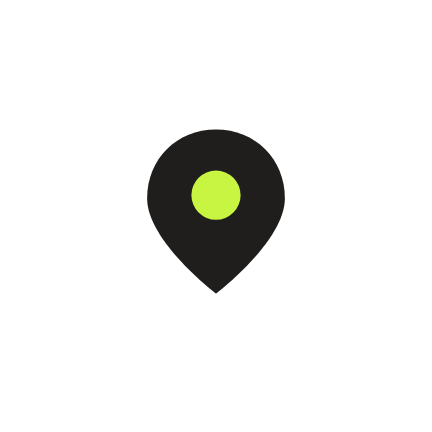
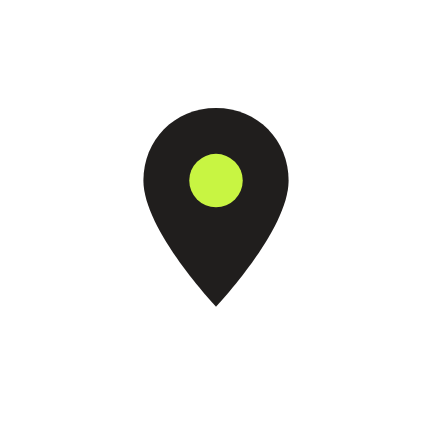
The pin is Roam's, not a redraw of it
Roger: "You have not used the same pin that was provided in the logo."
He is right, and the pack is the reason.

§02 says of the pin: "It is Roam's pin, geometry unchanged." Its own
inline SVG is not that. Traced from the logo he supplied, Roam's pin is
0.732 wide to tall — a tall teardrop that tapers to a point. The path
the pack draws is a redraw at 0.840: squatter, blunter, a bigger hole.
The first pass took the drawing and ignored the sentence.

Measured, at the size the pack's own shortlist renders it (25 x 31px):

  reference 5-13   aspect 0.806   hole 0.360   centre 0.387
  pack path        aspect 0.840   hole 0.357   centre 0.400
  Roam's pin       aspect 0.731   hole 0.368   centre 0.365

which is close enough at 25px to argue either way — so the supplied
artwork settles it rather than the screenshot. It measures 0.732.

So the pin is Roam's path now, everywhere, with the viewBox cropped to
the ink so a height maps straight onto it. The wordmark holds the pin's
*height* at 0.3em and lets the width follow, which keeps §03's clear
space ("x = the height of the pin") meaning what it says.

And the assets are no longer drawn by hand. `npm run brand` rebuilds
every SVG, every favicon, the app icons and the e-mail mark from
scripts/brand.mjs, which holds the pin path, the palette and the
measured wordmark metrics in one place — because this bug was one path
copied into six files, and the next one would be too.
[…]

diff --git a/apps/web/src/components/Wordmark.tsx b/apps/web/src/components/Wordmark.tsx
@@ -30,9 +30,13 @@ export function Wordmark({ height = 40, ink = colors.ink, ground = colors.header
   const fs = Math.round(height * 1.05);
   if (fs < 24) return <PinMark size={Math.max(8, height)} ink={ink} ground={ground} />;
 
-  // The pack's geometry, in ems of the type size: the pin is 0.3em wide and
+  // The pack's geometry, in ems of the type size: the pin is 0.3em tall and
   // sits 0.07em above the line box, nudged 0.03em right of the stem's centre.
+  // The pack sizes a square pin; Roam's is taller than it is wide, so height is
+  // what is held at 0.3em and the width follows — that keeps the clear-space
+  // rule (§03: x = the height of the pin) meaning the same thing.
   const pin = Math.round(fs * 0.3);
+  const pinW = Math.round(pin * PIN_ASPECT);
   const lineHeight = Math.round(fs * 1.15);
   // A 1.15 line box centres the 1.0 box the pack measures from, so the pack's
   // -0.07em from that top lands here: (1.15 - 1) / 2 - 0.07 ≈ 0.005em.
@@ -58,7 +62,7 @@ export function Wordmark({ height = 40, ink = colors.ink, ground = colors.header
       <View style={{ position: 'relative' }}>
         {/* U+0131, the dotless i: the pin is the dot. */}
         <Text style={letter}>{'ı'}</Text>
-        <View style={{ position: 'absolute', left: '50%', top, transform: [{ translateX: -pin / 2 + fs * 0.03 }] }}>
+        <View style={{ position: 'absolute', left: '50%', top, transform: [{ translateX: -pinW / 2 + fs * 0.03 }] }}>
           <Pin size={pin} ink={ink} ground={ground} />
         </View>
       </View>
@@ -69,14 +73,26 @@ export function Wordmark({ height = 40, ink = colors.ink, ground = colors.header
 
 /**
  * The pin on its own — the app icon, the favicon, the social avatar, a map
- * marker. Geometry unchanged from the pack; below 24px the hole is dropped,
- * because at that size it closes up into a smudge.
+ * marker.
+ *
+ * This is Roam's pin, geometry unchanged, which is what the pack asks for in
+ * §02. Note that the pack's *own* inline SVG is not that: it is a redraw at
+ * 0.84 wide to tall, where the mark Roger supplied measures 0.732 (traced from
+ * `Supporting docs/Rebrand - EPIC/.../roam-1788732531567-0gdo.png`). The words
+ * win over the redraw — the pin is the one thing carried over from Roam, and a
+ * squatter copy of it is a different mark.
+ *
+ * The viewBox is cropped to the ink, so `size` is the pin's height and the
+ * width follows from it. Below 24px the hole is dropped, because at that size
+ * it closes up into a smudge.
  */
+export const PIN_ASPECT = 38 / 52;
+
 export function Pin({ size = 24, ink = INK, ground = CREAM }: { size?: number; ink?: string; ground?: string }) {
   return (
-    <Svg width={size} height={size} viewBox="0 0 100 100">
-      <Path d="M50 0 C26 0 8 18 8 42 C8 68 50 100 50 100 C50 100 92 68 92 42 C92 18 74 0 50 0 Z" fill={ink} />
-      {size >= 24 ? <Circle cx={50} cy={40} r={15} fill={ground} /> : null}
+    <Svg width={Math.round(size * PIN_ASPECT)} height={size} viewBox="5 2 38 52">
+      <Path d="M24 2C13 2 5 10.5 5 21c0 13 19 33 19 33s19-20 19-33C43 10.5 35 2 24 2z" fill={ink} />
+      {size >= 24 ? <Circle cx={24} cy={21} r={7} fill={ground} /> : null}
     </Svg>
   );
 }
